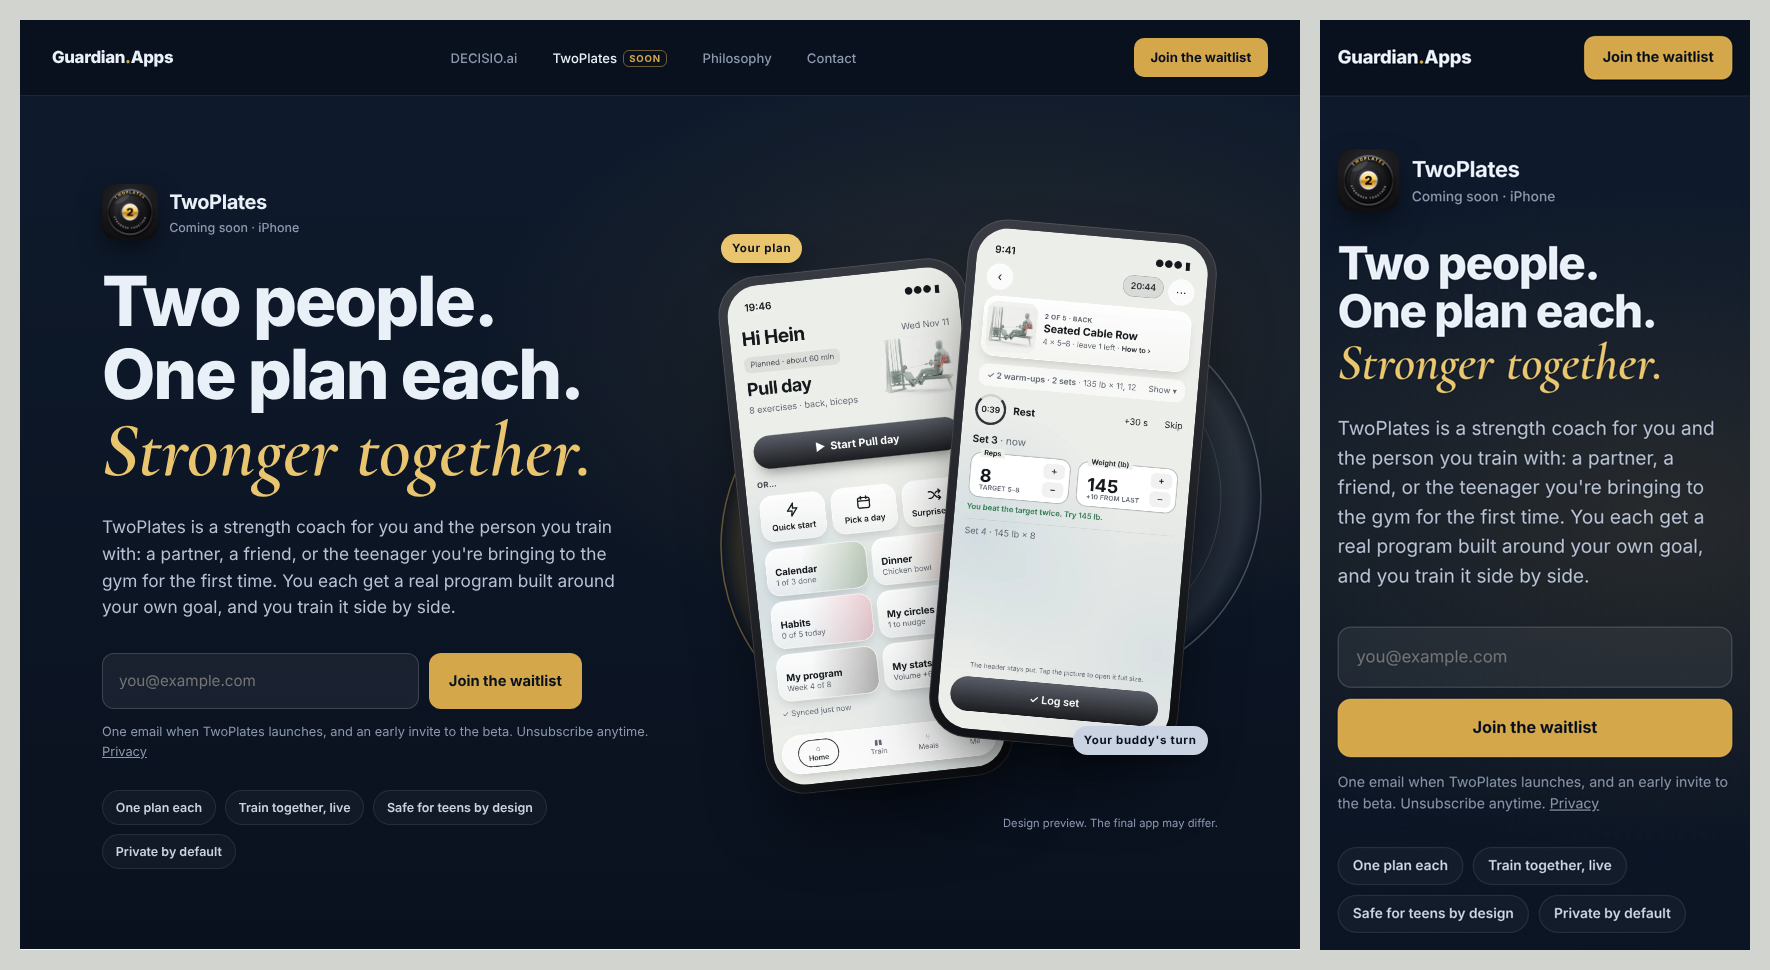
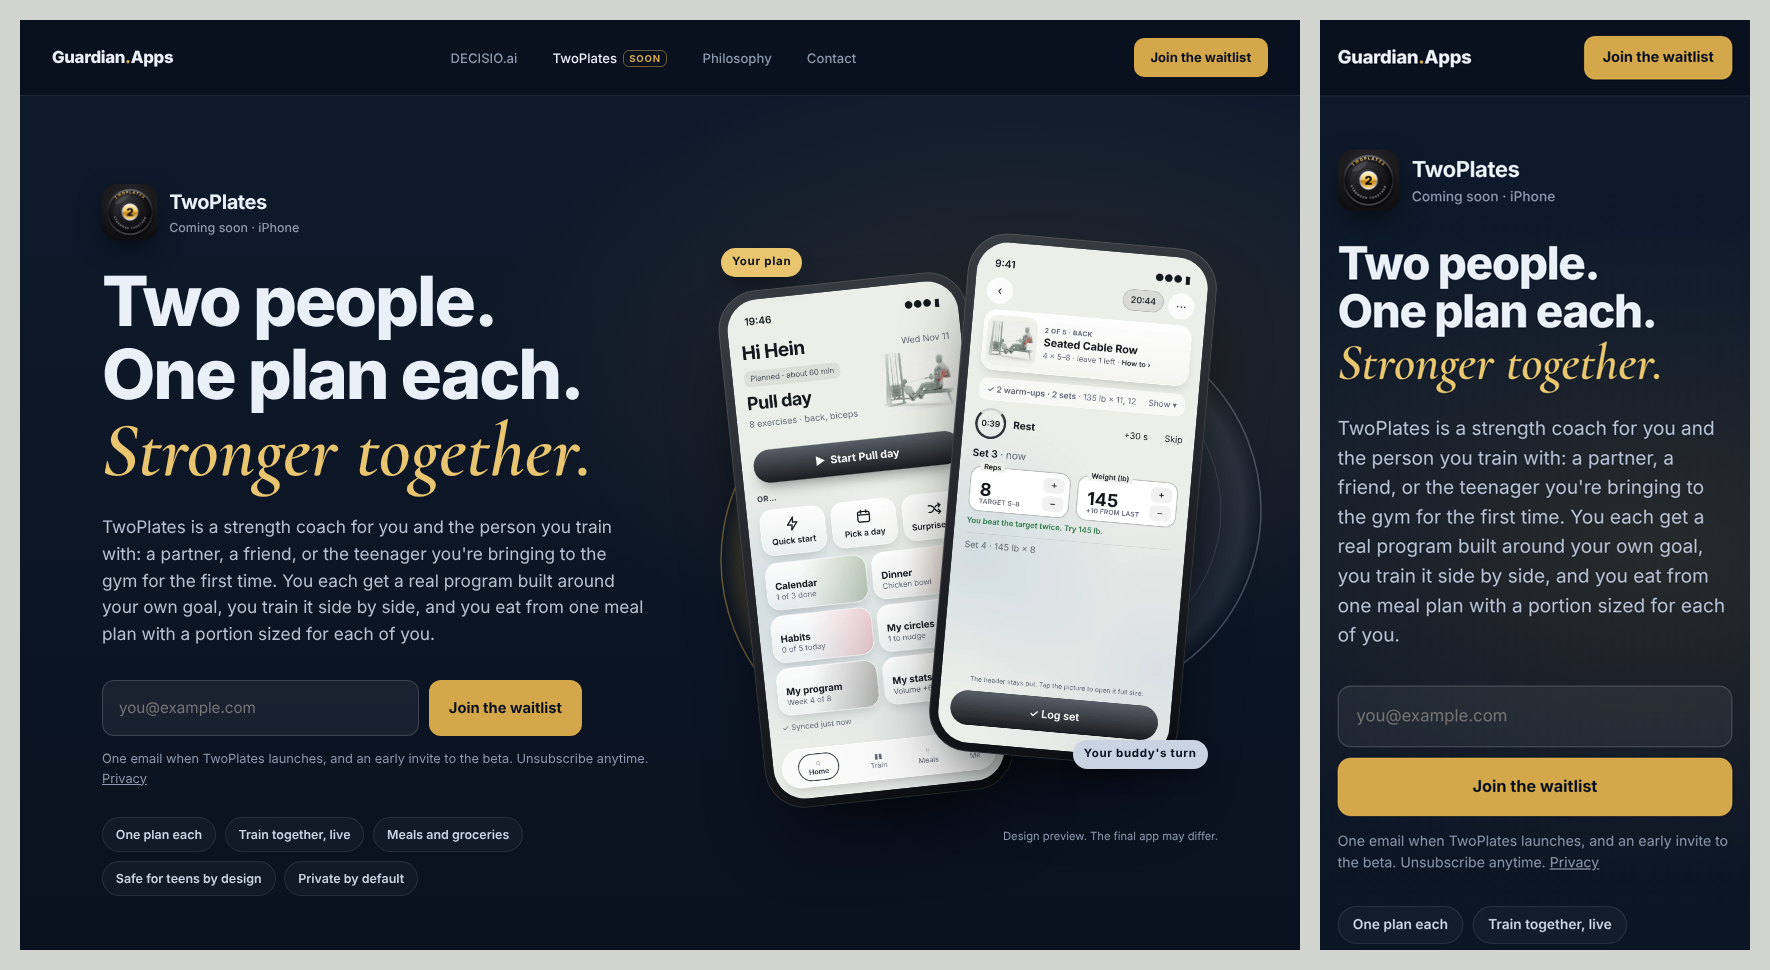
Add meals and groceries section to the TwoPlates coming-soon page
Hein sees meal planning and shopping as a seller in its own right; the
planner, grocery list and prep day already ship, so the page now shows
them, leading with one dinner and a portion per person.

Claude-Session: https://claude.ai/code/session_01JN8HRfXHAzwszwnq8yH2na

diff --git a/docs/twoplates-website/prototype/twoplates.html b/docs/twoplates-website/prototype/twoplates.html
@@ -4,7 +4,7 @@
 <meta charset="UTF-8">
 <meta name="viewport" content="width=device-width, initial-scale=1">
 <title>TwoPlates — Strength training for two · Coming soon · Guardian.Apps</title>
-<meta name="description" content="TwoPlates is a strength and fitness coach for you and the person you train with. One plan each, trained side by side. Safe for teens by design. Coming soon to iPhone.">
+<meta name="description" content="TwoPlates is a strength coach and meal planner for you and the person you train with. One plan each, trained side by side, one shared meal plan and grocery list. Safe for teens by design. Coming soon to iPhone.">
 <link rel="canonical" href="https://gap-apps.com/twoplates.html">
 <meta property="og:title" content="TwoPlates — Stronger together. Coming soon to iPhone.">
 <meta property="og:description" content="One plan each, trained side by side. For partners, friends, and parents with teens.">
@@ -142,7 +142,8 @@ footer{border-top:1px solid var(--line);padding:2.2rem 0}
 .duo .phone.a{left:2%;top:10px;transform:rotate(-4deg)}
 .duo .phone.b{right:2%;top:60px;transform:rotate(4deg)}
 .duo .lit{position:absolute;left:38%;bottom:6px;font-size:.72rem;font-weight:700;color:#b3261e;background:#fff3f2;border:1px solid rgba(214,69,69,.35);border-radius:999px;padding:.35rem .75rem}
-@media (max-width:900px){.move{grid-template-columns:1fr;gap:2rem}.duo{height:420px}.duo .phone{width:180px}}
+#meals .move{grid-template-columns:1.15fr 1fr}
+@media (max-width:900px){#meals .move{grid-template-columns:1fr}#meals .duo{order:2}.move{grid-template-columns:1fr;gap:2rem}.duo{height:420px}.duo .phone{width:180px}}
 
 @media (max-width:900px){
   .nav-links{display:none}
@@ -181,7 +182,7 @@ footer{border-top:1px solid var(--line);padding:2.2rem 0}
     <div>
       <div class="badge"><img src="assets/twoplates/tp-icon-512.webp" alt="TwoPlates app icon"><div><b>TwoPlates</b><small>Coming soon · iPhone</small></div></div>
       <h1>Two people.<br>One plan each.<br><span class="serif">Stronger together.</span></h1>
-      <p class="lede">TwoPlates is a strength coach for you and the person you train with: a partner, a friend, or the teenager you're bringing to the gym for the first time. You each get a real program built around your own goal, and you train it side by side.</p>
+      <p class="lede">TwoPlates is a strength coach for you and the person you train with: a partner, a friend, or the teenager you're bringing to the gym for the first time. You each get a real program built around your own goal, you train it side by side, and you eat from one meal plan with a portion sized for each of you.</p>
       <form class="wait" id="waitlist" action="https://buttondown.com/api/emails/embed-subscribe/MyGuardianApps" method="post" target="bd-iframe">
         <input type="email" name="email" placeholder="you@example.com" aria-label="Email address" required>
         <input type="hidden" name="embed" value="1">
@@ -189,7 +190,7 @@ footer{border-top:1px solid var(--line);padding:2.2rem 0}
         <button type="submit">Join the waitlist</button>
       </form>
       <p class="fine">One email when TwoPlates launches, and an early invite to the beta. Unsubscribe anytime. <a href="privacy.html" style="text-decoration:underline">Privacy</a></p>
-      <div class="chips"><span>One plan each</span><span>Train together, live</span><span>Safe for teens by design</span><span>Private by default</span></div>
+      <div class="chips"><span>One plan each</span><span>Train together, live</span><span>Meals and groceries</span><span>Safe for teens by design</span><span>Private by default</span></div>
     </div>
     <div class="stage" aria-hidden="true">
       <!-- Illustration: two weight plates, overlapping. Gold = you, graphite = your buddy. -->
@@ -262,6 +263,21 @@ footer{border-top:1px solid var(--line);padding:2.2rem 0}
     <div class="duo" aria-hidden="true">
       <div class="phone a"><img src="assets/twoplates/tp-screen-library.webp" alt="Exercise library, Back tab, with illustrated exercises"></div>
       <div class="phone b"><img src="assets/twoplates/tp-screen-exercise.webp" alt="Lat Pulldown with the lats highlighted"></div>
+    </div>
+  </div>
+</section>
+
+<section class="paper pad" id="meals" style="padding-top:2rem">
+  <div class="wrap move">
+    <div class="duo" aria-hidden="true">
+      <div class="phone a"><img src="assets/twoplates/tp-screen-meals.webp" alt="This week's meals: one dinner with a portion for each person"></div>
+      <div class="phone b"><img src="assets/twoplates/tp-screen-groceries.webp" alt="Grocery list sorted by aisle, built from the week's meals"></div>
+    </div>
+    <div>
+      <div class="eyebrow">Eat without the fuss</div>
+      <h2>One dinner for the table.<br><span class="serif">A portion for each of you.</span></h2>
+      <p>Training is half of it. Pick your breakfasts, lunches and dinners for the week, one question at a time, and TwoPlates sizes each person's portion to their own goal. The grocery list builds itself, sorted by aisle.</p>
+      <ul><li><b>✓</b>A week of meals that fit how you train</li><li><b>✓</b>Same dinner for everyone, portions for each person</li><li><b>✓</b>Grocery list by aisle: send it to Reminders, share or print it</li><li><b>✓</b>Prep day for batch cooking, with steps and timers</li><li><b>✓</b>Swaps for what you don't eat. No forbidden foods.</li><li><b>✓</b>Teens get a plate, never numbers</li></ul>
     </div>
   </div>
 </section>

diff --git a/docs/twoplates-website/prototype/index-two-apps.html b/docs/twoplates-website/prototype/index-two-apps.html
@@ -174,8 +174,8 @@ footer{border-top:1px solid var(--line);padding:2.2rem 0}
   <div class="acts"><a class="btn p">Try free for 30 days</a><a class="btn gh">Explore the app</a></div></div>
  <div class="app tp"><span class="state soon">Coming soon</span>
   <div class="top"><img src="assets/twoplates/tp-icon-512.webp" alt=""><div><div class="k">Strength training for two</div><h3>TwoPlates</h3></div></div>
-  <p>A strength coach for you and the person you train with. One plan each, trained side by side. Safe for teens by design.</p>
-  <ul><li>A real program for each of you</li><li>Train together, live: whose turn, what to load</li><li>Teen rules built in: no calories, no weigh-ins</li></ul>
+  <p>A strength coach and meal planner for you and the person you train with. One plan each, trained side by side. Safe for teens by design.</p>
+  <ul><li>A real program for each of you</li><li>Train together, live: whose turn, what to load</li><li>One meal plan, a portion for each, groceries done</li><li>Teen rules built in: no calories, no weigh-ins</li></ul>
   <div class="acts"><a class="btn p">Join the waitlist</a><a class="btn gh">Learn more</a></div></div>
 </div>
 </div></header></body></html>

diff --git a/docs/twoplates-website/NARRATIVE.md b/docs/twoplates-website/NARRATIVE.md
@@ -17,12 +17,13 @@ A strength coach for you and the person you train with. Each of you gets a real 
 
 Fitness apps are built for one person. People who stick with training usually have someone next to them. Today two people with different bodies and goals either do the same workout or train alone with separate apps.
 
-## 4. The three things we promise (and only these)
+## 4. The four things we promise (and only these)
 
 | Promise | Proof on the page | Built today? |
 |---|---|---|
 | **One plan each** | Goal, kit (gym, home), days → a progressing program per person; Quick start | Yes |
 | **Train together, live** | Join a session, whose turn, what to change on the bar, lock-screen timer, Apple Health | Yes (being polished in TestFlight build 2) |
+| **Eat without the fuss** | A week of meals one question at a time, one dinner with a portion per person, grocery list by aisle (Reminders, share, print), prep day, swaps, teens get a plate without numbers | Yes (meal planner, groceries, prep day, Reminders export all shipped) |
 | **Safe for teens by design** | No calories, weigh-ins, BMI or body-fat for teens; at least 2 reps in reserve; technique first; parent sees effort, not body numbers | Yes, enforced in the engine |
 
 Supporting promise, inherited from Guardian Apps: **private by default** (your iCloud, no ads, no data selling, you choose what to share).
@@ -83,3 +84,7 @@ Shows the exercise library and the Lat Pulldown detail with the real 3D illustra
 **Newsletter subject:** "Our second app: TwoPlates"
 **Body (short):**
 > You know us for DECISIO.ai. Our second app is for the other part of the week: the gym. TwoPlates gives you and your training buddy a plan each, and lets you train it together, live. If you bring a teenager to the gym, the teen safety rules are built in and can't be switched off. It's in testing now. Join the waitlist for an early beta invite.
+
+## 10. Meals as a seller
+
+Meals are their own reason to download: many couples and families want "what's for dinner and what do we buy" solved before they want a training program. Lead the meals section with the table, not the macros: **One dinner for the table. A portion for each of you.** Don't show calories or macros in marketing (keeps it teen-safe and avoids diet-app positioning). Don't claim weight loss. Don't give a recipe count (the set is growing).

diff --git a/docs/twoplates-website/README.md b/docs/twoplates-website/README.md
@@ -8,10 +8,11 @@ Design and copy for adding TwoPlates to gap-apps.com as a coming-soon product. B
 |---|---|
 | `prototype/twoplates.html` | The full coming-soon page, ready to adapt. Same tokens and structure as `index.html`. Responsive (mobile under 900px). |
 | `prototype/index-two-apps.html` | The homepage hero and "Our apps" two-card block. |
-| `prototype/assets/twoplates/` | `tp-icon-512.webp` (app icon), `tp-og.png` (1200×630 share image), six app screens (`tp-screen-*.webp`), including `tp-screen-exercise.webp` and `tp-screen-library.webp` with the real MoveKit exercise illustrations. |
+| `prototype/assets/twoplates/` | `tp-icon-512.webp` (app icon), `tp-og.png` (1200×630 share image), eight app screens (`tp-screen-*.webp`), including `tp-screen-meals.webp` and `tp-screen-groceries.webp`, and `tp-screen-exercise.webp` and `tp-screen-library.webp` with the real MoveKit exercise illustrations. |
 | `mockups/twoplates-coming-soon-overview.png` | First screen, desktop and phone. |
 | `mockups/twoplates-coming-soon-desktop.png`, `-mobile.png` | Full page renders. |
 | `mockups/homepage-two-apps.png` | Homepage change (new headline). |
+| `mockups/twoplates-meals.png` | The "Eat without the fuss" section (meal plan and groceries). |
 | `mockups/twoplates-see-every-move.png` | The "See every move" section with real exercise illustrations. |
 | `NARRATIVE.md` | Positioning, what we may and may not claim, headlines, launch posts. |
 | `LEGAL-PLAN.md` | Terms and privacy plan (no legal page changes needed for the coming-soon page itself). |
